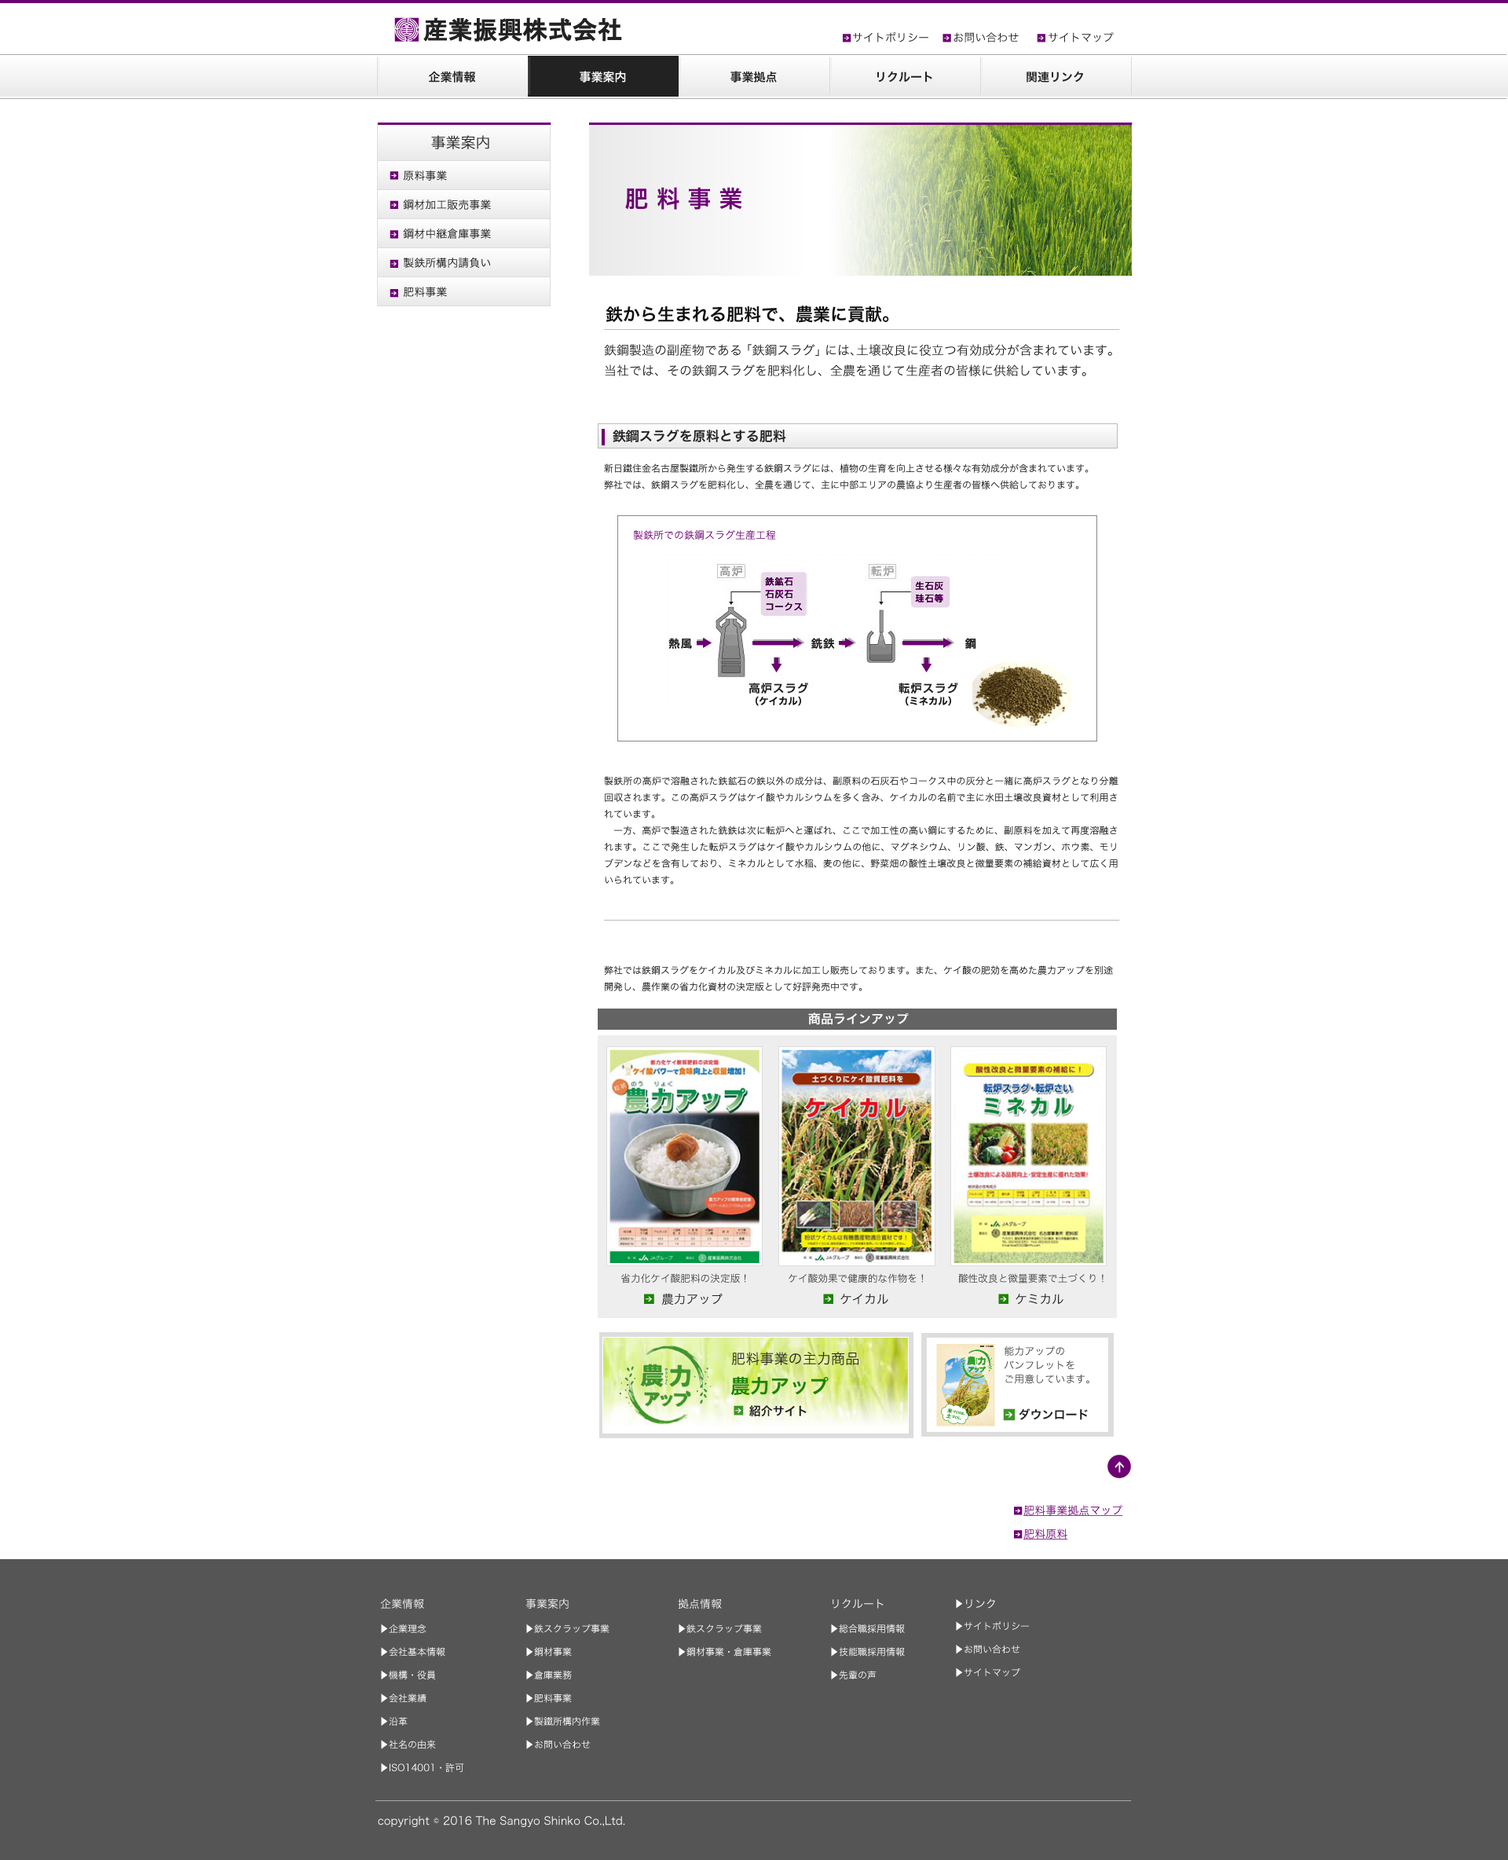
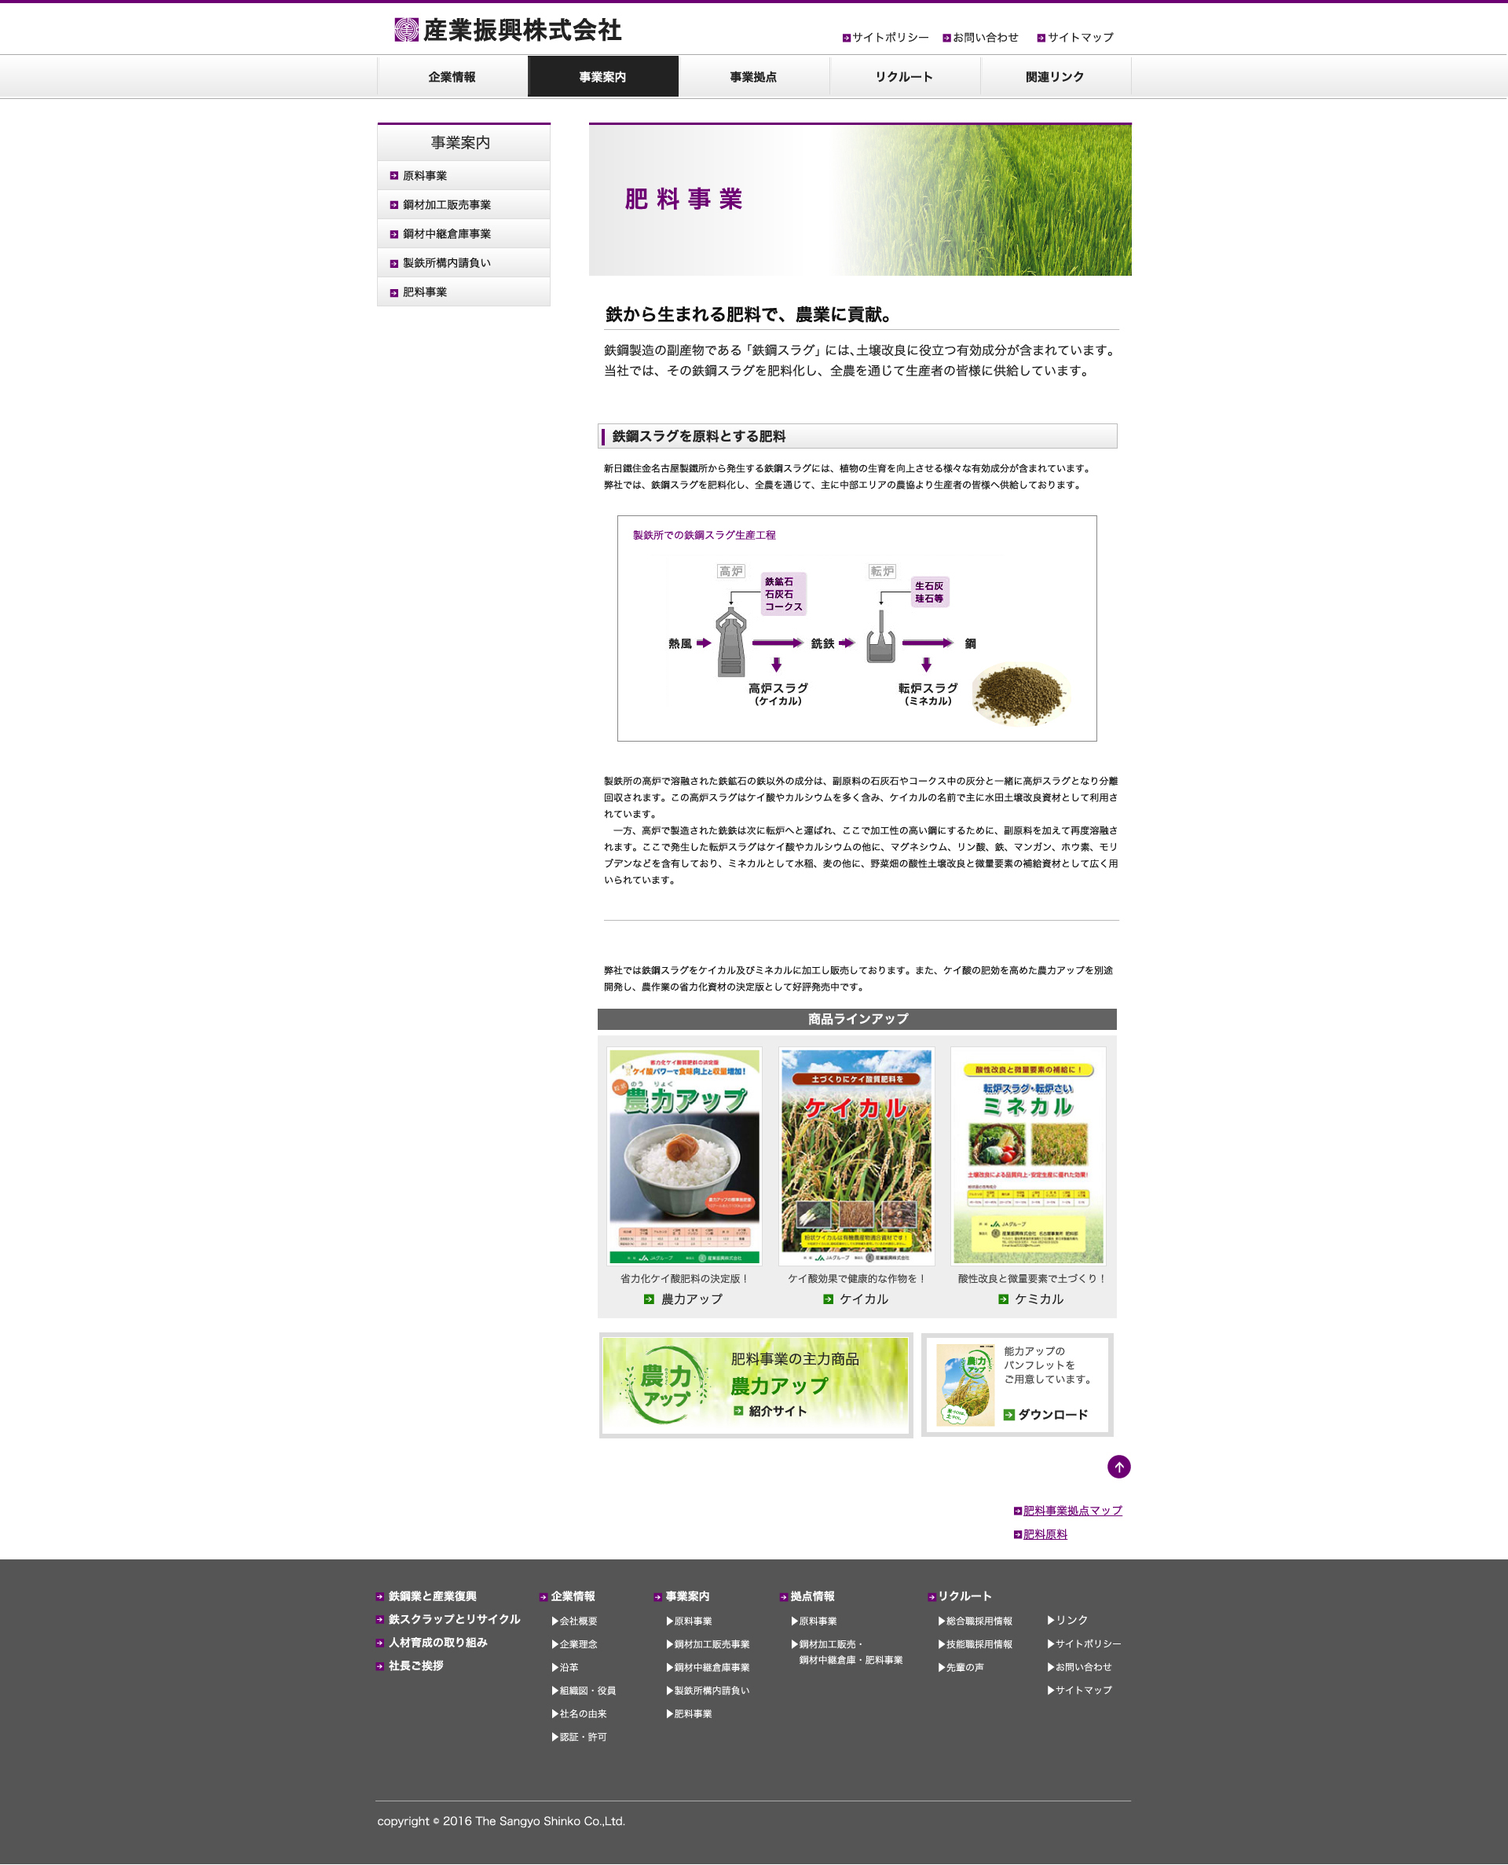
仮ページ（画像）の更新。

diff --git a/other/kigyoujoho.html b/other/kigyoujoho.html
@@ -5,13 +5,13 @@
 <title>企業情報</title>
 </head>
 
-<body>
-<img src="images/kigyoujouhou.jpg" width="1920" height="2400" usemap="#Map2" border="0" />
-<map name="Map2" id="Map2"><area shape="rect" coords="494,2081,673,2103" href="other/tetsutoscrap.html" target="_parent" /><area shape="rect" coords="493,2109,635,2136" href="other/jinzai.html" /><area shape="rect" coords="491,2140,575,2162" href="other/shachougoaisatsu.html" target="_parent" /><area shape="rect" coords="833,2048,912,2078" href="other/jigyo_top.html" /><area shape="rect" coords="840,2081,928,2110" href="other/jigyo_genryo.html" target="_parent" /><area shape="rect" coords="845,2198,914,2229" href="other/jigyo_hiryou.html" target="_parent" /><area shape="rect" coords="685,2050,768,2081" href="other/kigyoujoho.html" />
+<body leftmargin="0" topmargin="0">
+<img src="images/kigyoujouhou_top.jpg" width="1920" height="1241" usemap="#Map2" border="0" />
+<map name="Map2" id="Map2"><area shape="rect" coords="694,918,769,947" href="kigyoujoho_gaiyo.html" /><area shape="rect" coords="492,918,671,940" href="/other/tetsutoscrap.html" target="_parent" /><area shape="rect" coords="491,946,633,973" href="/other/jinzai.html" /><area shape="rect" coords="489,977,573,999" href="/other/shachougoaisatsu.html" target="_parent" /><area shape="rect" coords="831,885,910,915" href="/other/jigyo_top.html" /><area shape="rect" coords="838,918,926,947" href="/other/jigyo_genryo.html" target="_parent" /><area shape="rect" coords="843,1035,912,1066" href="/other/jigyo_hiryou.html" target="_parent" /><area shape="rect" coords="683,887,766,918" href="/other/kigyoujoho.html" /><area shape="rect" coords="494,2081,673,2103" href="/other/tetsutoscrap.html" target="_parent" /><area shape="rect" coords="493,2109,635,2136" href="/other/jinzai.html" /><area shape="rect" coords="491,2140,575,2162" href="/other/shachougoaisatsu.html" target="_parent" /><area shape="rect" coords="833,2048,912,2078" href="/other/jigyo_top.html" /><area shape="rect" coords="840,2081,928,2110" href="/other/jigyo_genryo.html" target="_parent" /><area shape="rect" coords="845,2198,914,2229" href="/other/jigyo_hiryou.html" target="_parent" /><area shape="rect" coords="685,2050,768,2081" href="/other/kigyoujoho.html" />
   <area shape="rect" coords="475,9,805,70" href="../index.html" target="_parent" />
   <area shape="rect" coords="481,73,672,129" href="kigyoujoho.html" target="_parent" />
   <area shape="rect" coords="678,71,862,128" href="jigyo_top.html" target="_parent" />
-  <area shape="rect" coords="480,203,699,238" href="kigyoujoho.html" target="_parent" />
+  <area shape="rect" coords="473,348,953,463" href="kigyoujoho_gaiyo.html" target="_parent" />
 </map>
 <map name="Map" id="Map">
   <area shape="rect" coords="503,17,777,93" href="../index.html" target="_parent" />

diff --git a/other/jigyo_genryo.html b/other/jigyo_genryo.html
@@ -5,13 +5,14 @@
 <title>事業案内-原料事業</title>
 </head>
 
-<body>
+<body leftmargin="0" topmargin="0">
 <img src="images/jigyoannai_genryoujigyou.jpg" width="1920" height="1824" usemap="#Map2" border="0" />
-<map name="Map2" id="Map2"><area shape="rect" coords="684,1470,767,1501" href="other/kigyoujoho.html" /><area shape="rect" coords="844,1618,913,1649" href="other/jigyo_hiryou.html" target="_parent" /><area shape="rect" coords="839,1501,927,1530" href="other/jigyo_genryo.html" target="_parent" /><area shape="rect" coords="832,1468,911,1498" href="other/jigyo_top.html" /><area shape="rect" coords="490,1560,574,1582" href="other/shachougoaisatsu.html" target="_parent" /><area shape="rect" coords="492,1529,634,1556" href="other/jinzai.html" /><area shape="rect" coords="493,1501,672,1523" href="other/tetsutoscrap.html" target="_parent" /><area shape="rect" coords="672,71,863,125" href="jigyo_genryo.html" target="_parent" />
+<map name="Map2" id="Map2"><area shape="rect" coords="684,1470,767,1501" href="/other/kigyoujoho.html" /><area shape="rect" coords="844,1618,913,1649" href="/other/jigyo_hiryou.html" target="_parent" /><area shape="rect" coords="839,1501,927,1530" href="/other/jigyo_genryo.html" target="_parent" /><area shape="rect" coords="832,1468,911,1498" href="/other/jigyo_top.html" /><area shape="rect" coords="490,1560,574,1582" href="/other/shachougoaisatsu.html" target="_parent" /><area shape="rect" coords="492,1529,634,1556" href="/other/jinzai.html" /><area shape="rect" coords="493,1501,672,1523" href="/other/tetsutoscrap.html" target="_parent" /><area shape="rect" coords="672,71,863,125" href="jigyo_genryo.html" target="_parent" />
   <area shape="rect" coords="475,9,805,70" href="../index.html" target="_parent" />
   <area shape="rect" coords="479,71,670,125" href="kigyoujoho.html" target="_parent" />
   <area shape="rect" coords="481,206,701,242" href="jigyo_genryo.html" target="_parent" />
   <area shape="rect" coords="480,352,702,390" href="jigyo_hiryou.html" target="_parent" />
+  <area shape="rect" coords="695,1501,770,1530" href="kigyoujoho_gaiyo.html" />
 </map>
 <map name="Map" id="Map">
   <area shape="rect" coords="503,17,777,93" href="../index.html" target="_parent" />

diff --git a/other/jinzai.html b/other/jinzai.html
@@ -3,11 +3,17 @@
 <head>
 <meta http-equiv="Content-Type" content="text/html; charset=UTF-8" />
 <title>事業案内-原料事業</title>
+<style type="text/css">
+body {
+	margin-left: 0px;
+	margin-top: 0px;
+}
+</style>
 </head>
 
 <body>
 <img src="images/jinzaiikusei.jpg" width="1920" height="1908" usemap="#Map2" border="0" />
-<map name="Map2" id="Map2"><area shape="rect" coords="686,1557,769,1588" href="other/kigyoujoho.html" /><area shape="rect" coords="846,1705,915,1736" href="other/jigyo_hiryou.html" target="_parent" /><area shape="rect" coords="841,1588,929,1617" href="other/jigyo_genryo.html" target="_parent" /><area shape="rect" coords="834,1555,913,1585" href="other/jigyo_top.html" /><area shape="rect" coords="492,1647,576,1669" href="other/shachougoaisatsu.html" target="_parent" /><area shape="rect" coords="494,1616,636,1643" href="other/jinzai.html" /><area shape="rect" coords="495,1588,674,1610" href="other/tetsutoscrap.html" target="_parent" />
+<map name="Map2" id="Map2"><area shape="rect" coords="695,1587,770,1616" href="kigyoujoho_gaiyo.html" /><area shape="rect" coords="493,1587,672,1609" href="/other/tetsutoscrap.html" target="_parent" /><area shape="rect" coords="492,1615,634,1642" href="/other/jinzai.html" /><area shape="rect" coords="490,1646,574,1668" href="/other/shachougoaisatsu.html" target="_parent" /><area shape="rect" coords="832,1554,911,1584" href="/other/jigyo_top.html" /><area shape="rect" coords="839,1587,927,1616" href="/other/jigyo_genryo.html" target="_parent" /><area shape="rect" coords="844,1704,913,1735" href="/other/jigyo_hiryou.html" target="_parent" /><area shape="rect" coords="684,1556,767,1587" href="/other/kigyoujoho.html" />
   <area shape="rect" coords="672,71,863,125" href="jigyo_top.html" target="_parent" />
   <area shape="rect" coords="475,9,805,70" href="../index.html" target="_parent" />
   <area shape="rect" coords="479,71,670,125" href="kigyoujoho.html" target="_parent" />

diff --git a/other/jigyo_hiryou.html b/other/jigyo_hiryou.html
@@ -5,9 +5,9 @@
 <title>企業情報</title>
 </head>
 
-<body>
+<body leftmargin="0" topmargin="0">
 <img src="images/jigyoannai_hiryoujigyou.jpg" width="1920" height="2368" usemap="#Map2" border="0" />
-<map name="Map2" id="Map2"><area shape="rect" coords="475,9,805,70" href="../index.html" target="_parent" /><area shape="rect" coords="479,71,670,125" href="kigyoujoho.html" target="_parent" /><area shape="rect" coords="481,206,701,242" href="jigyo_genryo.html" target="_parent" /><area shape="rect" coords="480,352,702,390" href="jigyo_hiryou.html" target="_parent" /><area shape="rect" coords="672,71,863,125" href="jigyo_genryo.html" target="_parent" />
+<map name="Map2" id="Map2"><area shape="rect" coords="683,2014,766,2045" href="/other/kigyoujoho.html" /><area shape="rect" coords="843,2162,912,2193" href="/other/jigyo_hiryou.html" target="_parent" /><area shape="rect" coords="838,2045,926,2074" href="/other/jigyo_genryo.html" target="_parent" /><area shape="rect" coords="831,2012,910,2042" href="/other/jigyo_top.html" /><area shape="rect" coords="489,2104,573,2126" href="/other/shachougoaisatsu.html" target="_parent" /><area shape="rect" coords="491,2073,633,2100" href="/other/jinzai.html" /><area shape="rect" coords="492,2045,671,2067" href="/other/tetsutoscrap.html" target="_parent" /><area shape="rect" coords="694,2045,769,2074" href="kigyoujoho_gaiyo.html" /><area shape="rect" coords="475,9,805,70" href="../index.html" target="_parent" /><area shape="rect" coords="479,71,670,125" href="kigyoujoho.html" target="_parent" /><area shape="rect" coords="481,206,701,242" href="jigyo_genryo.html" target="_parent" /><area shape="rect" coords="480,352,702,390" href="jigyo_hiryou.html" target="_parent" /><area shape="rect" coords="672,71,863,125" href="jigyo_genryo.html" target="_parent" />
 </map>
 <map name="Map2">
   <area shape="rect" coords="475,9,805,70" href="../index.html" target="_parent" />

diff --git a/other/shachougoaisatsu.html b/other/shachougoaisatsu.html
@@ -5,9 +5,9 @@
 <title>企業情報</title>
 </head>
 
-<body>
+<body leftmargin="0" topmargin="0">
 <img src="images/shachougoaisatsu.jpg" width="1920" height="1426" usemap="#Map2" border="0" />
-<map name="Map2" id="Map2"><area shape="rect" coords="685,1073,768,1104" href="other/kigyoujoho.html" /><area shape="rect" coords="845,1221,914,1252" href="other/jigyo_hiryou.html" target="_parent" /><area shape="rect" coords="840,1104,928,1133" href="other/jigyo_genryo.html" target="_parent" /><area shape="rect" coords="833,1071,912,1101" href="other/jigyo_top.html" /><area shape="rect" coords="491,1163,575,1185" href="other/shachougoaisatsu.html" target="_parent" /><area shape="rect" coords="493,1132,635,1159" href="other/jinzai.html" /><area shape="rect" coords="494,1104,673,1126" href="other/tetsutoscrap.html" target="_parent" />
+<map name="Map2" id="Map2"><area shape="rect" coords="696,1106,771,1135" href="kigyoujoho_gaiyo.html" /><area shape="rect" coords="685,1073,768,1104" href="/other/kigyoujoho.html" /><area shape="rect" coords="845,1221,914,1252" href="/other/jigyo_hiryou.html" target="_parent" /><area shape="rect" coords="840,1104,928,1133" href="/other/jigyo_genryo.html" target="_parent" /><area shape="rect" coords="833,1071,912,1101" href="/other/jigyo_top.html" /><area shape="rect" coords="491,1163,575,1185" href="/other/shachougoaisatsu.html" target="_parent" /><area shape="rect" coords="493,1132,635,1159" href="/other/jinzai.html" /><area shape="rect" coords="494,1104,673,1126" href="/other/tetsutoscrap.html" target="_parent" />
   <area shape="rect" coords="475,9,805,70" href="../index.html" target="_parent" />
   <area shape="rect" coords="481,73,672,129" href="kigyoujoho.html" target="_parent" />
   <area shape="rect" coords="678,71,862,128" href="jigyo_top.html" target="_parent" />

diff --git a/other/tetsutoscrap.html b/other/tetsutoscrap.html
@@ -5,9 +5,9 @@
 <title>企業情報</title>
 </head>
 
-<body>
+<body leftmargin="0" topmargin="0">
 <img src="images/tetsutoscrap.jpg" width="1920" height="3655" usemap="#Map2" border="0" />
-<map name="Map2" id="Map2"><area shape="rect" coords="493,3331,672,3353" href="other/tetsutoscrap.html" target="_parent" /><area shape="rect" coords="492,3359,634,3386" href="other/jinzai.html" /><area shape="rect" coords="490,3390,574,3412" href="other/shachougoaisatsu.html" target="_parent" /><area shape="rect" coords="832,3298,911,3328" href="other/jigyo_top.html" /><area shape="rect" coords="839,3331,927,3360" href="other/jigyo_genryo.html" target="_parent" /><area shape="rect" coords="844,3448,913,3479" href="other/jigyo_hiryou.html" target="_parent" /><area shape="rect" coords="684,3300,767,3331" href="other/kigyoujoho.html" />
+<map name="Map2" id="Map2"><area shape="rect" coords="692,3334,767,3363" href="kigyoujoho_gaiyo.html" /><area shape="rect" coords="493,3331,672,3353" href="/other/tetsutoscrap.html" target="_parent" /><area shape="rect" coords="492,3359,634,3386" href="/other/jinzai.html" /><area shape="rect" coords="490,3390,574,3412" href="/other/shachougoaisatsu.html" target="_parent" /><area shape="rect" coords="832,3298,911,3328" href="/other/jigyo_top.html" /><area shape="rect" coords="839,3331,927,3360" href="/other/jigyo_genryo.html" target="_parent" /><area shape="rect" coords="844,3448,913,3479" href="/other/jigyo_hiryou.html" target="_parent" /><area shape="rect" coords="684,3300,767,3331" href="/other/kigyoujoho.html" />
   <area shape="rect" coords="475,9,805,70" href="../index.html" target="_parent" />
   <area shape="rect" coords="481,73,672,129" href="kigyoujoho.html" target="_parent" />
   <area shape="rect" coords="678,71,862,128" href="jigyo_genryo.html" target="_parent" />

diff --git a/other/jigyo_top.html b/other/jigyo_top.html
@@ -5,13 +5,14 @@
 <title>事業案内-原料事業</title>
 </head>
 
-<body>
+<body leftmargin="0" topmargin="0">
 <img src="images/jigyoannai_top.jpg" width="1920" height="1376" usemap="#Map2" border="0" />
-<map name="Map2" id="Map2"><area shape="rect" coords="672,71,863,125" href="jigyo_top.html" target="_parent" />
+<map name="Map2" id="Map2"><area shape="rect" coords="695,1051,770,1080" href="kigyoujoho_gaiyo.html" /><area shape="rect" coords="493,1051,672,1073" href="/other/tetsutoscrap.html" target="_parent" /><area shape="rect" coords="492,1079,634,1106" href="/other/jinzai.html" /><area shape="rect" coords="490,1110,574,1132" href="/other/shachougoaisatsu.html" target="_parent" /><area shape="rect" coords="832,1018,911,1048" href="/other/jigyo_top.html" /><area shape="rect" coords="839,1051,927,1080" href="/other/jigyo_genryo.html" target="_parent" /><area shape="rect" coords="844,1168,913,1199" href="/other/jigyo_hiryou.html" target="_parent" /><area shape="rect" coords="684,1020,767,1051" href="/other/kigyoujoho.html" /><area shape="rect" coords="672,71,863,125" href="jigyo_top.html" target="_parent" />
   <area shape="rect" coords="475,9,805,70" href="../index.html" target="_parent" />
   <area shape="rect" coords="479,71,670,125" href="kigyoujoho.html" target="_parent" />
   <area shape="rect" coords="1134,699,1436,874" href="http://www.nouryoku-up.net" target="_blank" />
   <area shape="rect" coords="810,695,1118,837" href="jigyo_hiryou.html" target="_parent" />
+  <area shape="rect" coords="479,480,792,624" href="jigyo_genryo.html" target="_parent" />
 </map>
 <map name="Map" id="Map">
   <area shape="rect" coords="503,17,777,93" href="../index.html" target="_parent" />

diff --git a/other/kigyoujoho_gaiyo.html b/other/kigyoujoho_gaiyo.html
@@ -1,0 +1,19 @@
+<!DOCTYPE html PUBLIC "-//W3C//DTD XHTML 1.0 Transitional//EN" "http://www.w3.org/TR/xhtml1/DTD/xhtml1-transitional.dtd">
+<html xmlns="http://www.w3.org/1999/xhtml">
+<head>
+<meta http-equiv="Content-Type" content="text/html; charset=UTF-8" />
+<title>企業情報</title>
+</head>
+
+<body leftmargin="0" topmargin="0">
+<img src="images/kigyoujouhou_kaishagaiyou.jpg" width="1920" height="2401" usemap="#Map2" border="0" />
+<map name="Map2" id="Map2"><area shape="rect" coords="695,2083,770,2112" href="kigyoujoho_gaiyo.html" /><area shape="rect" coords="494,2081,673,2103" href="/other/tetsutoscrap.html" target="_parent" /><area shape="rect" coords="493,2109,635,2136" href="/other/jinzai.html" /><area shape="rect" coords="491,2140,575,2162" href="/other/shachougoaisatsu.html" target="_parent" /><area shape="rect" coords="833,2048,912,2078" href="/other/jigyo_top.html" /><area shape="rect" coords="840,2081,928,2110" href="/other/jigyo_genryo.html" target="_parent" /><area shape="rect" coords="845,2198,914,2229" href="/other/jigyo_hiryou.html" target="_parent" /><area shape="rect" coords="685,2050,768,2081" href="/other/kigyoujoho.html" />
+  <area shape="rect" coords="475,9,805,70" href="../index.html" target="_parent" />
+  <area shape="rect" coords="481,73,672,129" href="kigyoujoho.html" target="_parent" />
+  <area shape="rect" coords="678,71,862,128" href="jigyo_top.html" target="_parent" />
+</map>
+<map name="Map" id="Map">
+  <area shape="rect" coords="503,17,777,93" href="../index.html" target="_parent" />
+</map>
+</body>
+</html>

diff --git a/index.html b/index.html
@@ -173,13 +173,12 @@
                     <nav>
                         <ul>
                             <li class="lv2"><a href="/other/kigyoujoho.html">企業情報</a></li>
+                            <li class="lv3"><a href="/other/kigyoujoho_gaiyo.html">会社概要</a></li>
                             <li class="lv3"><a href="">企業理念</a></li>
-                            <li class="lv3"><a href="">会社基本情報</a></li>
-                            <li class="lv3"><a href="">機構・役員</a></li>
-                            <li class="lv3"><a href="">会社業績</a></li>
                             <li class="lv3"><a href="">沿革</a></li>
+                            <li class="lv3"><a href="">組織図・役員</a></li>
                             <li class="lv3"><a href="">社名の由来</a></li>
-                            <li class="lv3"><a href="">ISO14001・許可</a></li>
+                            <li class="lv3"><a href="">認証・許可</a></li>
                         </ul>
                     </nav>
                 </div>
